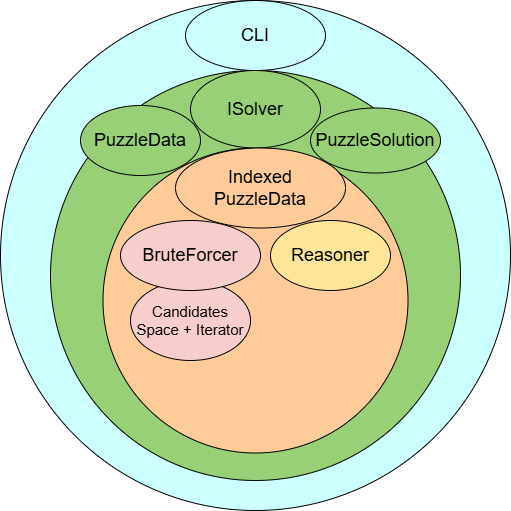
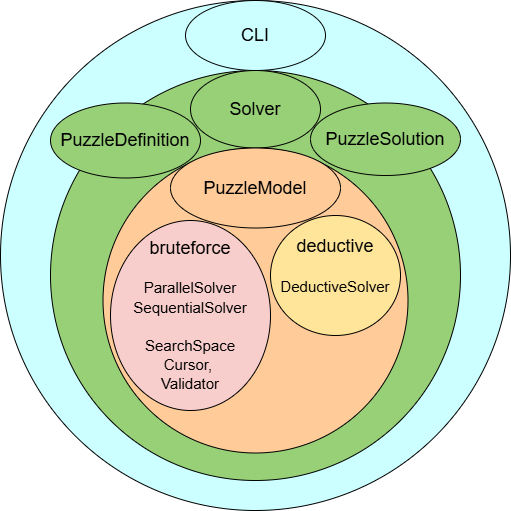
README.md updated + some minor code edits

diff --git a/core/src/bruteforce/ConstraintChecker.cpp b/core/src/bruteforce/ConstraintChecker.cpp
@@ -4,7 +4,7 @@ namespace epuzzle::details::bruteforce
 {
 namespace
 {
-    // No big `switch` here but `if constexpr ... else static_assert` - so that compiler can help us add new constraints correctly
+    // Using if constexpr + static_assert so the compiler helps us find unhandled constraint types at build time.
     template <typename TParams>
     class CheckerImpl final : public ConstraintChecker
     {
@@ -73,6 +73,7 @@ namespace
 
     std::unique_ptr<ConstraintChecker> ConstraintChecker::create(const ConstraintModel& constraint)
     {
+        // see class CheckerImpl description
         return std::visit(
             [](const auto& arg) -> std::unique_ptr<ConstraintChecker>
             {

diff --git a/apps/epuzzle/src/ProgramOptions.cpp b/apps/epuzzle/src/ProgramOptions.cpp
@@ -70,7 +70,7 @@ namespace
         cxxopts::Options optsManager(appName, description);
         optsManager.custom_help("--file <FILE> [OPTIONS]");
         optsManager.add_options()
-            ("f,file", "[required] Path to puzzle data file", cxxopts::value<std::string>())
+            ("f,file", "[required] Path to puzzle definition file", cxxopts::value<std::string>())
             ("m,method", "[optional] Solving method, where arg is: " + EnumHelper::names<Method>(),
                 cxxopts::value<std::string>()->default_value(defaultMethod))
             ("p,prefilter", "[BruteForce only] Prefilter mode, where arg is: " + EnumHelper::names<PrefilterMode>(),

diff --git a/core/src/bruteforce/Validator.h b/core/src/bruteforce/Validator.h
@@ -8,7 +8,7 @@ namespace epuzzle::details::bruteforce
     //   filtering out obviously unsuitable combinations subsets (via isAttributeAssignmentValid).
     //   These checks will be excluded from the subsequent main check (via isSolutionValid) as unnecessary.
     // * If prefiltering disabled: the main check stage (via isSolutionValid) will involve a full enumeration
-    // and all checks of all possible solution candidates.
+    //   and all checks of all possible solution candidates (mode for diagnostics, etc).
     class Validator
     {
     public:

diff --git a/tests/src/SolverTests.cpp b/tests/src/SolverTests.cpp
@@ -550,12 +550,12 @@ namespace epuzzle::tests
 
 
     INSTANTIATE_TEST_SUITE_P(
-        SolverBruteForce,
+        SolverBruteForceNoPrefilter,
         SolverTests,
         testing::Values(SolverConfig{ Method::BruteForce, BFConfig{.prefilter = false, .execution = ExecPolicy::Sequential} }));
 
     INSTANTIATE_TEST_SUITE_P(
-        SolverBruteForcePrefilter,
+        SolverBruteForce,
         SolverTests,
         testing::Values(SolverConfig{ Method::BruteForce, BFConfig{.prefilter = true, .execution = ExecPolicy::Sequential} }));
 

diff --git a/tests/src/SolverRealPuzzleTests.cpp b/tests/src/SolverRealPuzzleTests.cpp
@@ -35,7 +35,7 @@ namespace epuzzle::tests
         using ExecPolicy = SolverConfig::BruteForceConfig::ExecPolicy;
     }
 
-    TEST_P(SolverRealPuzzleTests, DSSolutionCount128)
+    TEST_P(SolverRealPuzzleTests, FourGirlsSolutionCount128)
     {
         const auto solutions = solve("four_girls.toml");
         ASSERT_EQ(solutions.size(), 128);

diff --git a/core/src/deductive/DeductiveSolver.h b/core/src/deductive/DeductiveSolver.h
@@ -4,7 +4,8 @@
 
 namespace epuzzle::details::deductive
 {
-    // Deductive solver (human-like thinking)
+    // Placeholder for a future intelligent solver based on deductive logic and constraint propagation.
+    // Currently under architectural design.
     class DeductiveSolver final : public Solver
     {
     public:

diff --git a/core/src/bruteforce/ParallelSolver.h b/core/src/bruteforce/ParallelSolver.h
@@ -5,7 +5,7 @@
 namespace epuzzle::details::bruteforce
 {
 
-    // Solving in thread pool
+    // Performs parallel exhaustive search in a thread pool using chunked range processing.
     class ParallelSolver final : public Solver
     {
     public:

diff --git a/core/src/bruteforce/SequentialSolver.h b/core/src/bruteforce/SequentialSolver.h
@@ -5,7 +5,7 @@
 
 namespace epuzzle::details::bruteforce
 {
-    // Solving in calling thread
+    // Performs sequential exhaustive search in the calling thread.
     class SequentialSolver final : public Solver
     {
     public:

diff --git a/tests/src/PuzzleParserTests.cpp b/tests/src/PuzzleParserTests.cpp
@@ -3,7 +3,7 @@
 namespace epuzzle::tests
 {
 
-    TEST(PuzzleParserTests, LoadFromTextOk)
+    TEST(PuzzleParserTests, ParseTextOk)
     {
         static constexpr std::string_view text = R"(
             #

diff --git a/core/include/epuzzle/Solver.h b/core/include/epuzzle/Solver.h
@@ -11,7 +11,7 @@
 namespace epuzzle
 {
 
-    // Solver. The main interface for client code.
+    // The main interface for client code.
     class Solver
     {
     public:

diff --git a/README.md b/README.md
@@ -18,7 +18,7 @@ Modern C++20 библиотека и консольная утилита для 
 
 ### Архитектура, паттерны, идиомы и безопасность типов
 
-* Чистая слоистая архитектура с разделением на DTO, indexed data и алгоритмы.
+* Слоистая архитектура с разделением на DTO, Model и алгоритмы.
 * Опора на `SOLID` при проектировании.
 * Polymorphism: Solver, `std::variant` + `std::visit`, и др.
 * Strong Typing: IndexedVector + TypedIndex.
@@ -337,7 +337,7 @@ BruteForce метод может потребовать значительног
 
 ### Архитектура проекта
 
-Проект `epuzzle` построен на слоистой архитектуре с разделением на DTO (Data Transfer Objects - PuzzleDefinition, PuzzleSolution), indexed data и алгоритмы:
+Проект `epuzzle` построен на слоистой архитектуре с разделением на DTO (Data Transfer Objects - PuzzleDefinition, PuzzleSolution), Model (PuzzleModel, SolutionModel) и алгоритмы:
 
 ![Схема](docs/images/epuzzle_arch.png)
 
@@ -393,7 +393,6 @@ struct SolverConfig
 ```cpp
 namespace epuzzle::details
 {
-    // Deductive solver (human-like thinking)
     class DeductiveSolver final : public Solver
     {
     public:
@@ -420,7 +419,7 @@ namespace epuzzle::details
 ```cpp
 // Тесты не привязаны к конкретному решателю, например SolverTests для BruteForce и для Deductive:
     INSTANTIATE_TEST_SUITE_P(
-        SolverBruteForcePrefilter,
+        SolverBruteForce,
         SolverTests,
         testing::Values(SolverConfig{ Method::BruteForce, BFConfig{.prefilter = true, .execution = ExecPolicy::Sequential} }));
 
@@ -507,7 +506,7 @@ assignment.emplace_back(PersonID{}); // Ok
 // assignment.emplace_back(AttributeTypeID{}); // compiler error!
 
 assignment[AttributeValueID{}] = PersonID{}; // Ok
-// assignment[PersonID{}] = AttributeValueID{}; // compiler error!
+// assignment[PersonID{}] = PersonID{}; // compiler error!
 ```
 
 #### Расширение системы constraints
